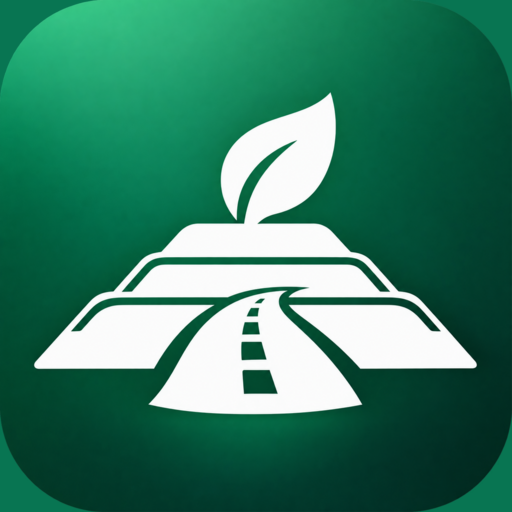
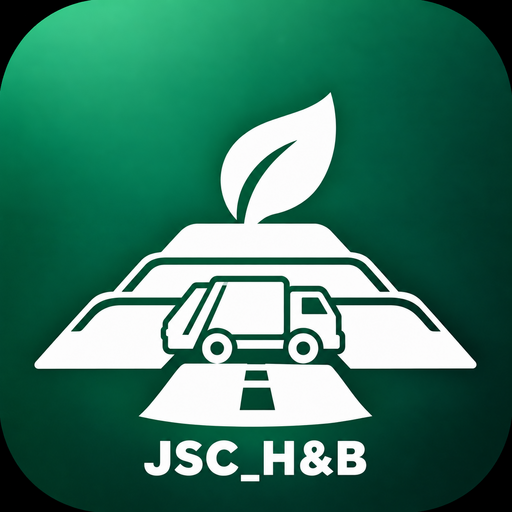
اعتماد أيقونة الشاحنة مع JSC_H&B
* Replace app icon with truck and JSC_H&B identity

* Add cache-safe JSC truck icon filenames

* Use JSC truck application icons

* Use cache-safe JSC truck icon

* Refresh cache for JSC truck icon

* Use JSC truck icon in notifications

* Bump frontend assets for JSC truck icon

* Update bundled JSC truck icon references

diff --git a/public/sw.js b/public/sw.js
@@ -1,5 +1,5 @@
-const CACHE_NAME='minya-pwa-v10-approved-app-icon';
-const STATIC_ASSETS=['/','/style.css','/manifest.webmanifest','/assets/app-icon-192.png','/assets/app-icon-512.png','/assets/app-icon-maskable-512.png'];
+const CACHE_NAME='minya-pwa-v11-jsc-truck-icon';
+const STATIC_ASSETS=['/','/style.css','/manifest.webmanifest','/assets/app-icon-jsc-192.png','/assets/app-icon-jsc-512.png','/assets/app-icon-jsc-maskable-512.png'];
 self.addEventListener('install',event=>{event.waitUntil(caches.open(CACHE_NAME).then(cache=>cache.addAll(STATIC_ASSETS)).then(()=>self.skipWaiting()));});
 self.addEventListener('activate',event=>{event.waitUntil(caches.keys().then(keys=>Promise.all(keys.filter(k=>k!==CACHE_NAME).map(k=>caches.delete(k)))).then(()=>self.clients.claim()));});
 self.addEventListener('fetch',event=>{
@@ -26,8 +26,8 @@ self.addEventListener('push',event=>{
   const title=data.title||'تنبيه من مكب المنيا';
   const options={
     body:data.body||'',
-    icon:'/assets/app-icon-192.png',
-    badge:'/assets/app-icon-192.png',
+    icon:'/assets/app-icon-jsc-192.png',
+    badge:'/assets/app-icon-jsc-192.png',
     tag:data.tag||`minya-push-${Date.now()}`,
     renotify:false,
     data:{href:data.href||'/'},

diff --git a/public/index.html b/public/index.html
@@ -282,7 +282,7 @@
   <meta name="viewport" content="width=device-width, initial-scale=1.0">
   <title>نظام إدارة مكب المنيا</title>
   <link rel="stylesheet" href="style.css">
-  <link rel="stylesheet" href="app-bundle.css?v=3.8.0-20260913-cloud-files-v1-mobile-ui3-icon1-20260914-wa8">
+  <link rel="stylesheet" href="app-bundle.css?v=3.8.0-20260913-cloud-files-v1-mobile-ui3-icon2-20260914-wa8">
 
   <style id="annual-mobile-card-fix">
     @media (max-width: 760px) {
@@ -310,8 +310,8 @@
   </style>
 
 <link rel="manifest" href="/manifest.webmanifest">
-<link rel="icon" type="image/png" sizes="192x192" href="/assets/app-icon-192.png">
-<link rel="apple-touch-icon" href="/assets/app-icon-192.png">
+<link rel="icon" type="image/png" sizes="192x192" href="/assets/app-icon-jsc-192.png">
+<link rel="apple-touch-icon" href="/assets/app-icon-jsc-192.png">
 </head>
 
 <body>
@@ -417,7 +417,7 @@
     </section>
   </main>
 
-  <script src="app-bundle.js?v=3.8.0-20260913-cloud-files-v1-mobile-ui3-icon1-20260914-wa8"></script>
+  <script src="app-bundle.js?v=3.8.0-20260913-cloud-files-v1-mobile-ui3-icon2-20260914-wa8"></script>
   <script src="workday-ui.js?v=workday-v1"></script>
   <script>
   (function () {

diff --git a/public/js/app-local-notifications.js b/public/js/app-local-notifications.js
@@ -27,7 +27,7 @@
     if(!enabled||Notification.permission!=='granted'||!('serviceWorker' in navigator))return;
     try{
       const reg=await navigator.serviceWorker.ready;
-      await reg.showNotification(title,{body,icon:'/assets/app-icon-192.png',badge:'/assets/app-icon-192.png',tag:`minya-${title}-${body}`.slice(0,120),renotify:false,data:{href}});
+      await reg.showNotification(title,{body,icon:'/assets/app-icon-jsc-192.png',badge:'/assets/app-icon-jsc-192.png',tag:`minya-${title}-${body}`.slice(0,120),renotify:false,data:{href}});
     }catch(_){ }
   }
 

diff --git a/public/app-bundle.js b/public/app-bundle.js
@@ -1,5 +1,5 @@
 // Minya Landfill app loader
-const MINYA_ASSET_VERSION = "3.8.0-20260913-cloud-files-v1-mobile-ui3-icon1-20260914";
+const MINYA_ASSET_VERSION = "3.8.0-20260913-cloud-files-v1-mobile-ui3-icon2-20260914";
 const MINYA_LOADING_STARTED_AT = Date.now();
 const MINYA_APPEARANCE_STORAGE_KEY = "minya_appearance_settings_v1";
 const MINYA_TYPOGRAPHY_PRESETS = {

diff --git a/public/app.js b/public/app.js
@@ -1,5 +1,5 @@
 // Minya Landfill app loader
-const MINYA_ASSET_VERSION = "3.8.0-20260913-cloud-files-v1-mobile-ui3-icon1-20260914";
+const MINYA_ASSET_VERSION = "3.8.0-20260913-cloud-files-v1-mobile-ui3-icon2-20260914";
 const MINYA_LOADING_STARTED_AT = Date.now();
 const MINYA_APPEARANCE_STORAGE_KEY = "minya_appearance_settings_v1";
 const MINYA_TYPOGRAPHY_PRESETS = {
